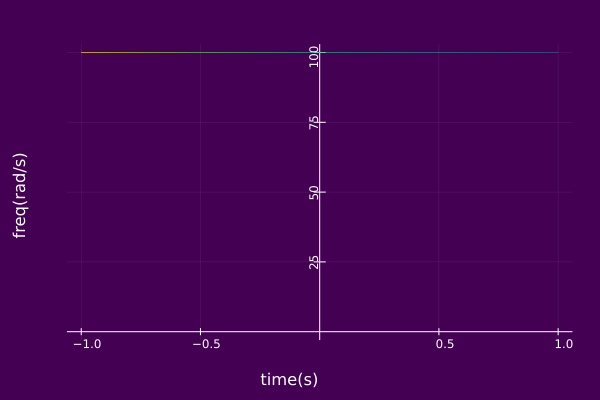
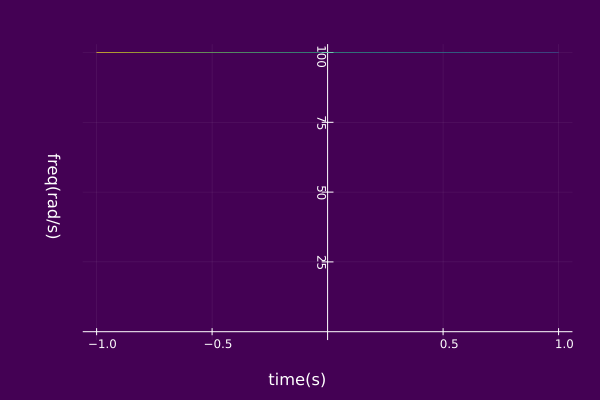
updated AM plots

diff --git a/docs/src/basicComponents/AM.md b/docs/src/basicComponents/AM.md
@@ -47,11 +47,8 @@ plot(𝐶₀; timeaxis=-1.0:0.0005:1.0)
 using ISA, Plots
 𝐶₀ = AMFMtriplet(t->exp(-t^2),t->100,0.0)
 ψ₀ = AMFMcomp(𝐶₀)
-plot(𝐶₀; timeaxis=-1.0:0.0005:1.0)
-plot!( camera=(0,90),
-       zlabel="", zticks=:false,
-       left_margin=15Plots.mm, margin=5Plots.mm,
-       yrotation = 90, ymirror=true)
+plot(𝐶₀; timeaxis=-1.0:0.0005:1.0, view="TF",
+left_margin=15Plots.mm, margin=5Plots.mm)
 ```
 ![](https://raw.githubusercontent.com/NMSU-ISA/ISA/master/docs/src/assets/IS_exAM3.png)
 
@@ -81,11 +78,8 @@ plot(𝐶₀; timeaxis=-1.0:0.0005:1.0)
 using ISA, Plots
 𝐶₀ = AMFMtriplet(t->sin(11t),t->250,0.0)
 ψ₀ = AMFMcomp(𝐶₀)
-plot(𝐶₀; timeaxis=-1.0:0.0005:1.0)
-plot!( camera=(0,90),
-       zlabel="", zticks=:false,
-       left_margin=15Plots.mm, margin=5Plots.mm,
-       yrotation = 90, ymirror=true)
+plot(𝐶₀; timeaxis=-1.0:0.0005:1.0, view="TF",
+left_margin=15Plots.mm, margin=5Plots.mm)
 ```
 ![](https://raw.githubusercontent.com/NMSU-ISA/ISA/master/docs/src/assets/IS_exAM6.png)
 
@@ -113,10 +107,7 @@ plot(𝐶₀; timeaxis=-1.0:0.0005:1.0)
 using ISA, Plots
 𝐶₀ = AMFMtriplet(t->cos(t)+exp(-t),t->100,1.0)
 ψ₀ = AMFMcomp(𝐶₀)
-plot(𝐶₀; timeaxis=-1.0:0.0005:1.0)
-plot!( camera=(0,90),
-       zlabel="", zticks=:false,
-       left_margin=15Plots.mm, margin=5Plots.mm,
-       yrotation = 90, ymirror=true)
+plot(𝐶₀; timeaxis=-1.0:0.0005:1.0, view="TF",
+left_margin=15Plots.mm, margin=5Plots.mm)
 ```
 ![](https://raw.githubusercontent.com/NMSU-ISA/ISA/master/docs/src/assets/IS_exAM9.png)
